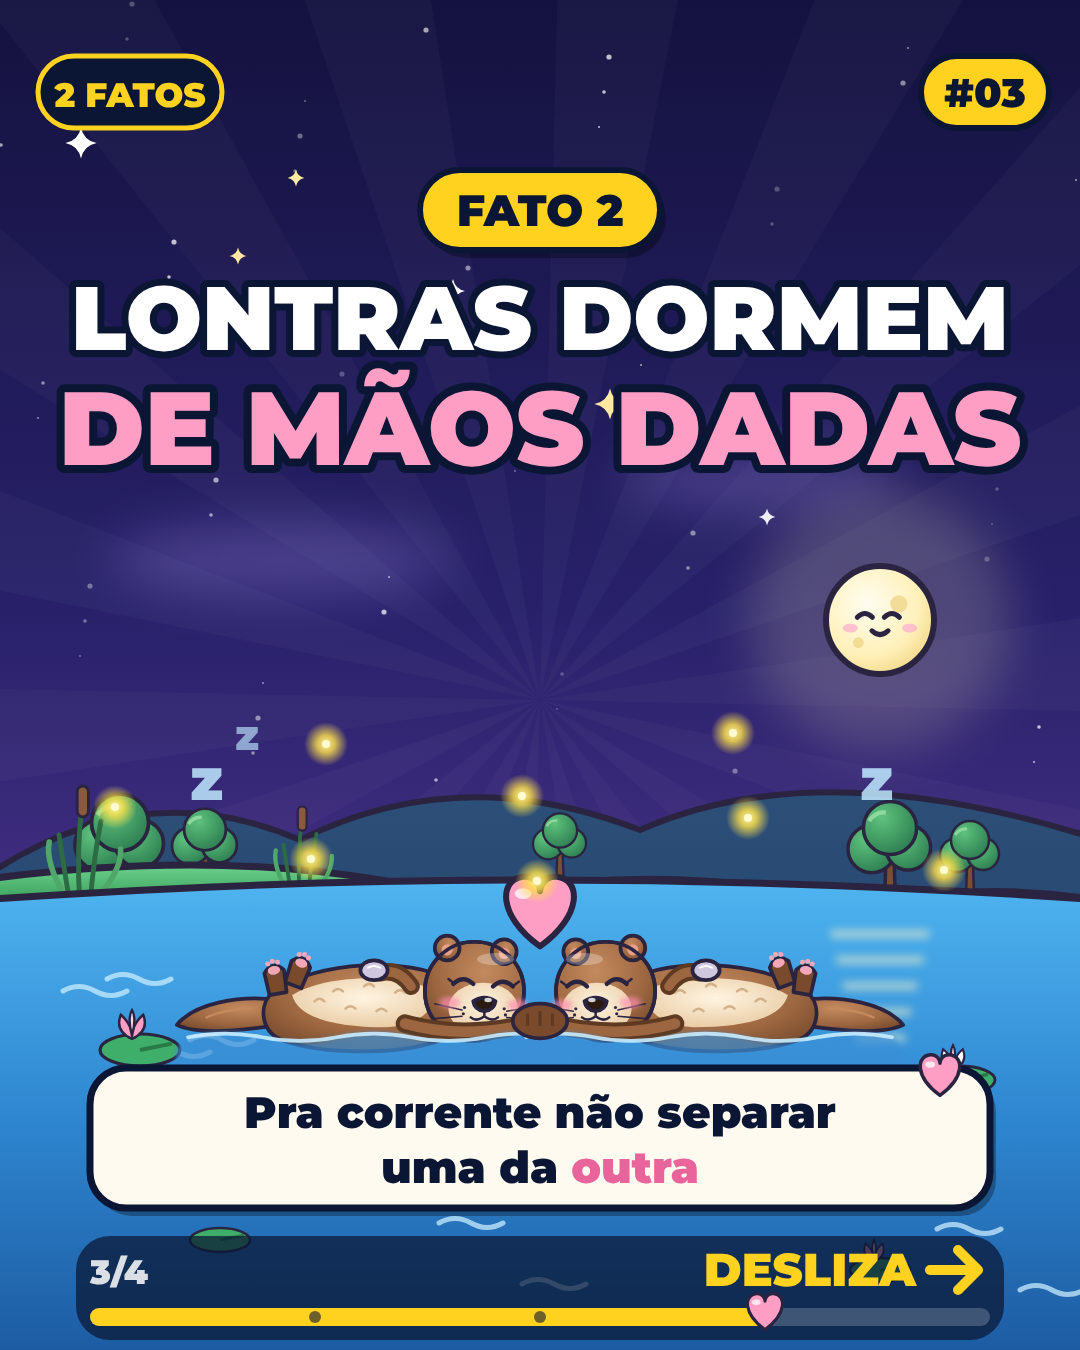
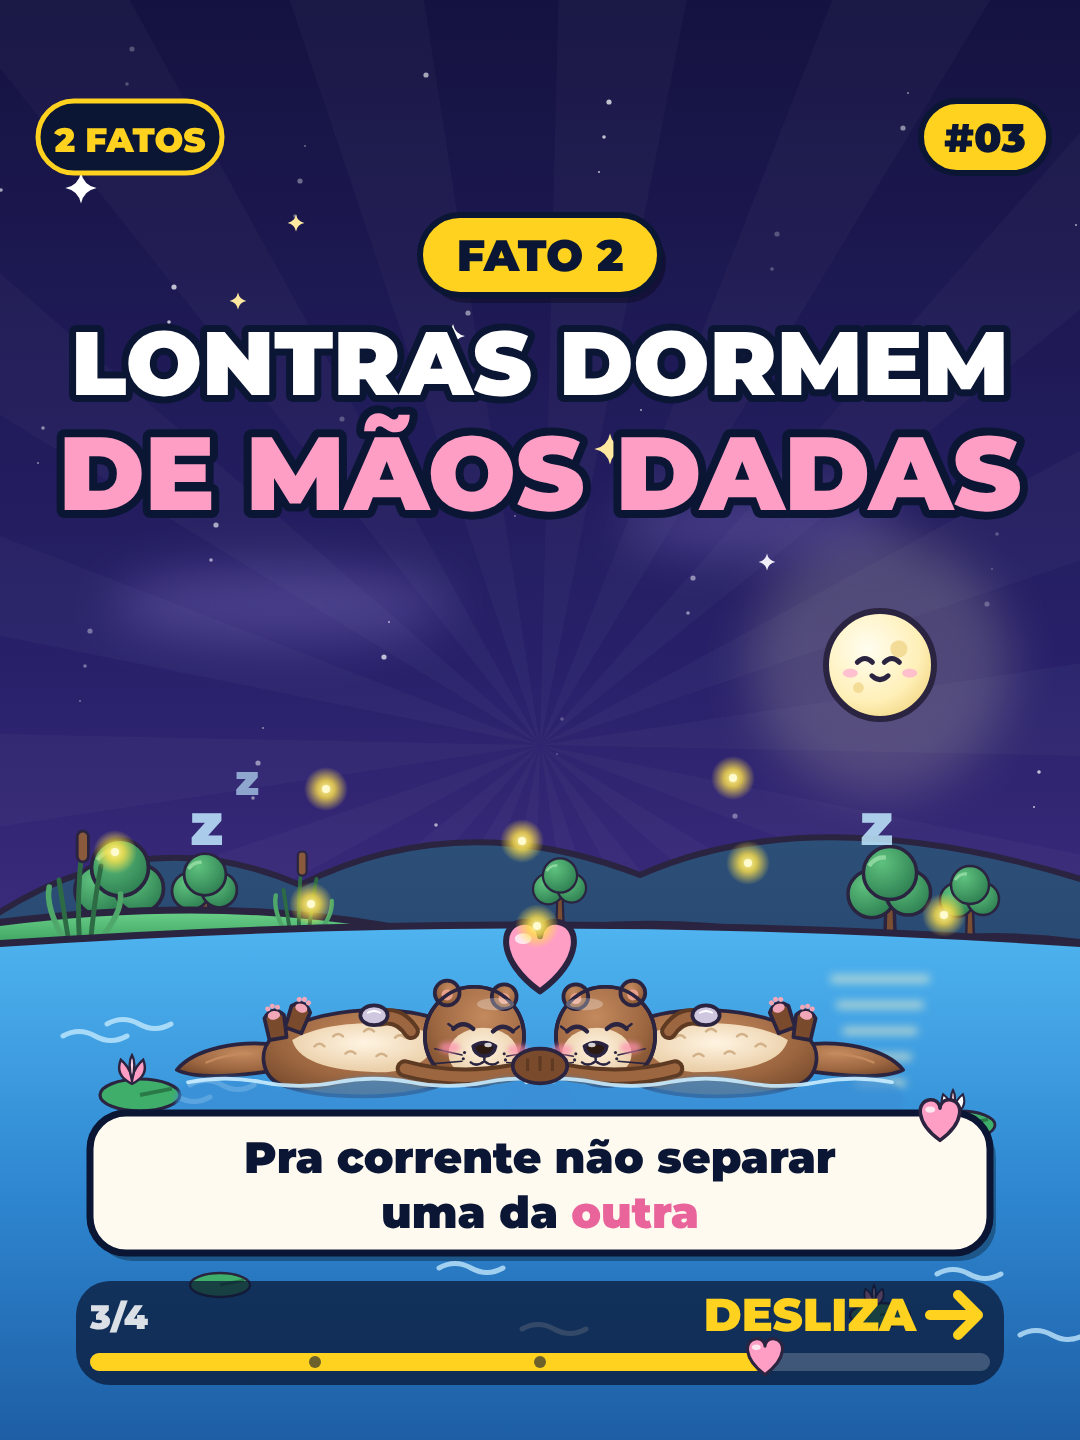
Carrossel fofinhos em 3:4 (1080x1440) para caber inteiro no Instagram
Claude-Session: https://claude.ai/code/session_01466fSmg3pKuf6zqbkMuRWf

diff --git a/carrosseis/01-fofinhos/gerar.js b/carrosseis/01-fofinhos/gerar.js
@@ -28,7 +28,7 @@ function defs(){ return '<defs>'+
  '<radialGradient id="ff" cx=".5" cy=".5" r=".5"><stop offset="0" stop-color="#fff7a0"/><stop offset=".4" stop-color="#ffe14a" stop-opacity=".8"/><stop offset="1" stop-color="#ffe14a" stop-opacity="0"/></radialGradient>'+
  '<radialGradient id="pglow" cx=".5" cy=".5" r=".5"><stop offset="0" stop-color="#ff9ec4" stop-opacity=".45"/><stop offset="1" stop-color="#ff9ec4" stop-opacity="0"/></radialGradient>'+
  '</defs>'; }
-function ceu(seed){ let o='<rect width="1080" height="1350" fill="url(#sky)"/>';
+function ceu(seed){ let o='<rect y="-60" width="1080" height="1520" fill="url(#sky)"/>';
  for(let k=0;k<18;k++){const a=k*0.349+seed*.1; o+='<path d="M540,700 L'+R(540+Math.cos(a)*1700)+','+R(700+Math.sin(a)*1700)+' L'+R(540+Math.cos(a+0.17)*1700)+','+R(700+Math.sin(a+0.17)*1700)+' Z" fill="#fff" opacity=".028"/>';}
  for(let i=0;i<60;i++){const x=(i*173+seed*61)%1080, y=(i*97+seed*37)%820; o+='<circle cx="'+x+'" cy="'+y+'" r="'+(1+i%3*.8)+'" fill="#fff" opacity="'+(.25+(i%5)*.12)+'"/>';}
  for(let i=0;i<7;i++){const x=(i*157+seed*83+90)%1000+40, y=(i*113+seed*29)%600+120; o+=brilho(x,y,.35+(i%3)*.15,i%2?'#fff':'#ffe9a0');}
@@ -38,8 +38,8 @@ function brilho(x,y,s,c){ return '<path transform="translate('+x+' '+y+') scale(
 function lua(x,y,r){ return '<circle cx="'+x+'" cy="'+y+'" r="'+(r*2.4)+'" fill="#fff4c0" opacity=".18" filter="url(#b25)"/><circle cx="'+x+'" cy="'+y+'" r="'+r+'" fill="url(#moon)" stroke="'+OL+'" stroke-width="6"/><circle cx="'+R(x+r*.35)+'" cy="'+R(y-r*.3)+'" r="'+R(r*.16)+'" fill="#f0d68a" opacity=".8"/><circle cx="'+R(x-r*.4)+'" cy="'+R(y+r*.42)+'" r="'+R(r*.1)+'" fill="#f0d68a" opacity=".8"/><path d="M'+R(x-r*.42)+','+R(y-r*.05)+' q'+R(r*.14)+','+R(-r*.14)+' '+R(r*.28)+',0 M'+R(x+r*.08)+','+R(y-r*.05)+' q'+R(r*.14)+','+R(-r*.14)+' '+R(r*.28)+',0" fill="none" stroke="'+OL+'" stroke-width="5" stroke-linecap="round"/><path d="M'+R(x-r*.15)+','+R(y+r*.2)+' q'+R(r*.15)+','+R(r*.14)+' '+R(r*.3)+',0" fill="none" stroke="'+OL+'" stroke-width="5" stroke-linecap="round"/><ellipse cx="'+R(x-r*.55)+'" cy="'+R(y+r*.15)+'" rx="'+R(r*.14)+'" ry="'+R(r*.08)+'" fill="#ffb3cf" opacity=".8"/><ellipse cx="'+R(x+r*.55)+'" cy="'+R(y+r*.15)+'" rx="'+R(r*.14)+'" ry="'+R(r*.08)+'" fill="#ffb3cf" opacity=".8"/>'; }
 function arvore(x,y,s){ return '<g transform="translate('+x+' '+y+') scale('+s+')" stroke="'+OL+'" stroke-width="5"><path d="M-8,0 L-6,-60 L6,-60 L8,0 Z" fill="#7a4e32"/><circle cx="-26" cy="-80" r="34" fill="url(#tree)"/><circle cx="26" cy="-82" r="32" fill="url(#tree)"/><circle cx="0" cy="-110" r="38" fill="url(#tree)"/><path d="M-30,-120 q10,-14 24,-12" fill="none" stroke="#9be0a8" stroke-width="6" opacity=".8"/></g>'; }
 function vagalumes(seed,n=12,y0=760,y1=1200){ let o=''; for(let i=0;i<n;i++){const x=(i*211+seed*97)%1040+20, y=y0+((i*137+seed*53)%(y1-y0)); o+='<circle cx="'+x+'" cy="'+y+'" r="22" fill="url(#ff)"/><circle cx="'+x+'" cy="'+y+'" r="4" fill="#fffbd0"/>';} return o; }
-function montes(){ let o='<path d="M-20,880 Q140,770 300,840 Q460,760 640,830 Q820,750 1100,840 V1360 H-20 Z" fill="url(#hFar)" stroke="'+OL+'" stroke-width="6"/>';
- o+='<path d="M-20,930 Q200,840 420,910 Q640,850 860,905 Q980,880 1100,900 V1360 H-20 Z" fill="url(#hMid)" stroke="'+OL+'" stroke-width="6"/>';
+function montes(){ let o='<path d="M-20,880 Q140,770 300,840 Q460,760 640,830 Q820,750 1100,840 V1420 H-20 Z" fill="url(#hFar)" stroke="'+OL+'" stroke-width="6"/>';
+ o+='<path d="M-20,930 Q200,840 420,910 Q640,850 860,905 Q980,880 1100,900 V1420 H-20 Z" fill="url(#hMid)" stroke="'+OL+'" stroke-width="6"/>';
  o+=arvore(120,905,.75)+arvore(205,890,.55)+arvore(890,905,.7)+arvore(970,895,.5)+arvore(560,880,.45);
  return o; }
 function relva(path){ return '<path d="'+path+'" fill="url(#hNear)" stroke="'+OL+'" stroke-width="7"/>'; }
@@ -138,8 +138,8 @@ function caixa(l1,l2){ return '<rect x="96" y="1076" width="900" height="140" rx
 `;
 const S=[];
 S.push(`(()=>{let o=defs()+ceu(0)+lua(880,640,58)+montes();
- o+=relva('M-20,975 Q260,900 600,950 Q760,975 860,1010 L720,1360 H-20 Z');
- o+=rio('M610,925 Q760,940 830,975 Q950,1025 1100,1010 V1360 H520 Q660,1210 720,1110 Q752,1040 680,975 Z');
+ o+=relva('M-20,975 Q260,900 600,950 Q760,975 860,1010 L720,1420 H-20 Z');
+ o+=rio('M610,925 Q760,940 830,975 Q950,1025 1100,1010 V1420 H520 Q660,1210 720,1110 Q752,1040 680,975 Z');
  o+=ondas(700,1060,1040,1250,9,1)+reflexo(900,1040)+nenufar(1010,1210,.7,'#ff9ec4')+nenufar(760,1240,.55,null);
  o+=folhas(10,640,1000,1300,70,1)+junco(640,1010,.6)+junco(560,1180,.7)+pedra(690,1240,.8)+pedra(600,1300,.6);
  for(let i=0;i<8;i++) o+=flor((i*79+30)%560,1050+(i*57)%220,.8,['#ff9ec4','#ffffff','#bfe0ff','#ffe9a0'][i%4]);
@@ -153,7 +153,7 @@ S.push(`(()=>{let o=defs()+ceu(0)+lua(880,640,58)+montes();
  return o;})()`);
 S.push(`(()=>{let o=defs()+ceu(1)+lua(150,640,50)+montes();
  o+='<g stroke="'+OL+'" stroke-width="6">'; for(let x=10;x<1080;x+=125) o+='<rect x="'+x+'" y="880" width="30" height="120" rx="8" fill="url(#wood)"/><path d="M'+(x+8)+',900 v80" stroke="#8a5a2c" stroke-width="3"/>'; o+='<rect x="-10" y="900" width="1100" height="22" rx="8" fill="url(#wood)"/><rect x="-10" y="950" width="1100" height="22" rx="8" fill="url(#wood)"/></g>';
- o+=relva('M-20,985 Q540,940 1100,985 V1360 H-20 Z')+folhas(0,1080,1000,1300,90,2);
+ o+=relva('M-20,985 Q540,940 1100,985 V1420 H-20 Z')+folhas(0,1080,1000,1300,90,2);
  for(let i=0;i<10;i++) o+=flor((i*109+40)%1040,1020+(i*41)%110,.8,['#ff9ec4','#ffffff','#bfe0ff','#ffe9a0'][i%4]);
  o+='<circle cx="540" cy="830" r="330" fill="url(#pglow)"/>';
  o+=vaca(380,780,.68,1,{hr:10,lenco:'#ffd21f'})+vaca(700,780,.68,-1,{hr:10,lenco:'#7fd3ff',coroa:true});
@@ -164,7 +164,7 @@ S.push(`(()=>{let o=defs()+ceu(1)+lua(150,640,50)+montes();
  return o;})()`);
 S.push(`(()=>{let o=defs()+ceu(2)+lua(880,620,54)+montes();
  o+=relva('M-20,880 Q200,850 380,880 L320,920 Q160,930 -20,920 Z')+junco(80,905,.7)+junco(300,900,.55);
- o+=rio('M-20,900 Q540,860 1100,900 V1360 H-20 Z')+reflexo(880,930)+ondas(20,1060,940,1300,16,3);
+ o+=rio('M-20,900 Q540,860 1100,900 V1420 H-20 Z')+reflexo(880,930)+ondas(20,1060,940,1300,16,3);
  o+=nenufar(140,1050,.8,'#ff9ec4')+nenufar(960,1080,.7,'#fff')+nenufar(220,1240,.6,null)+nenufar(880,1270,.6,'#ff9ec4');
  o+=lontra(374,1005,.62,-1)+lontra(706,1005,.62,1)+maos(540,1021,.62)+coracao(540,920,1.2,PK);
  o+='<text x="190" y="800" font-family="M" font-weight="900" font-size="58" fill="#bfe9ff" opacity=".85">z</text><text x="235" y="750" font-family="M" font-weight="900" font-size="42" fill="#bfe9ff" opacity=".65">z</text><text x="860" y="800" font-family="M" font-weight="900" font-size="58" fill="#bfe9ff" opacity=".85">z</text>';
@@ -174,8 +174,8 @@ S.push(`(()=>{let o=defs()+ceu(2)+lua(880,620,54)+montes();
  o+=caixa('Pra corrente não separar','uma da <tspan fill="#e8649a">outra</tspan>')+progresso(3);
  return o;})()`);
 S.push(`(()=>{let o=defs()+ceu(3)+lua(900,640,50)+montes();
- o+=relva('M-20,960 Q280,900 560,950 Q640,970 700,1000 L560,1360 H-20 Z');
- o+=rio('M560,930 Q720,940 800,975 Q940,1020 1100,1000 V1360 H420 Q540,1200 600,1100 Q620,1030 560,975 Z')+ondas(600,1060,1040,1200,7,4)+nenufar(990,1200,.6,'#ff9ec4');
+ o+=relva('M-20,960 Q280,900 560,950 Q640,970 700,1000 L560,1420 H-20 Z');
+ o+=rio('M560,930 Q720,940 800,975 Q940,1020 1100,1000 V1420 H420 Q540,1200 600,1100 Q620,1030 560,975 Z')+ondas(600,1060,1040,1200,7,4)+nenufar(990,1200,.6,'#ff9ec4');
  o+=folhas(10,540,990,1110,50,4);
  for(let i=0;i<6;i++) o+=flor((i*83+30)%480,1000+(i*37)%90,.75,['#ff9ec4','#ffffff','#bfe0ff'][i%3]);
  o+='<circle cx="290" cy="820" r="280" fill="url(#pglow)"/>'+vaca(210,760,.5,1,{hr:10,lenco:PK})+vaca(400,760,.5,-1,{hr:10,lenco:YL,coroa:true});
@@ -187,8 +187,8 @@ S.push(`(()=>{let o=defs()+ceu(3)+lua(900,640,50)+montes();
  o+=progresso(4);
  return o;})()`);
 (async()=>{const b=await chromium.launch();
-for(let i=0;i<S.length;i++){const p=await b.newPage({viewport:{width:1080,height:1350}});
-await p.setContent(`<style>@font-face{font-family:M;src:url(${font});font-weight:900}body{margin:0}</style><svg id=s width=1080 height=1350 viewBox="0 0 1080 1350"></svg><script>window.window=window;${art};${lib}; try{document.getElementById('s').innerHTML=${S[i]};}catch(e){document.title='ERR '+e.message}</script>`);
+for(let i=0;i<S.length;i++){const p=await b.newPage({viewport:{width:1080,height:1440}});
+await p.setContent(`<style>@font-face{font-family:M;src:url(${font});font-weight:900}body{margin:0}</style><svg id=s width=1080 height=1440 viewBox="0 0 1080 1440"></svg><script>window.window=window;${art};${lib}; try{document.getElementById('s').innerHTML='<g transform="translate(0 45)">'+${S[i]}+'</g>';}catch(e){document.title='ERR '+e.message}</script>`);
 await p.evaluate(()=>document.fonts.ready); await p.waitForTimeout(400);
 const t=await p.title(); if(t.startsWith('ERR')) console.log('slide',i+1,t);
 await p.screenshot({path:`${process.argv[2]}/car01b/slide${i+1}.png`}); await p.close();}
